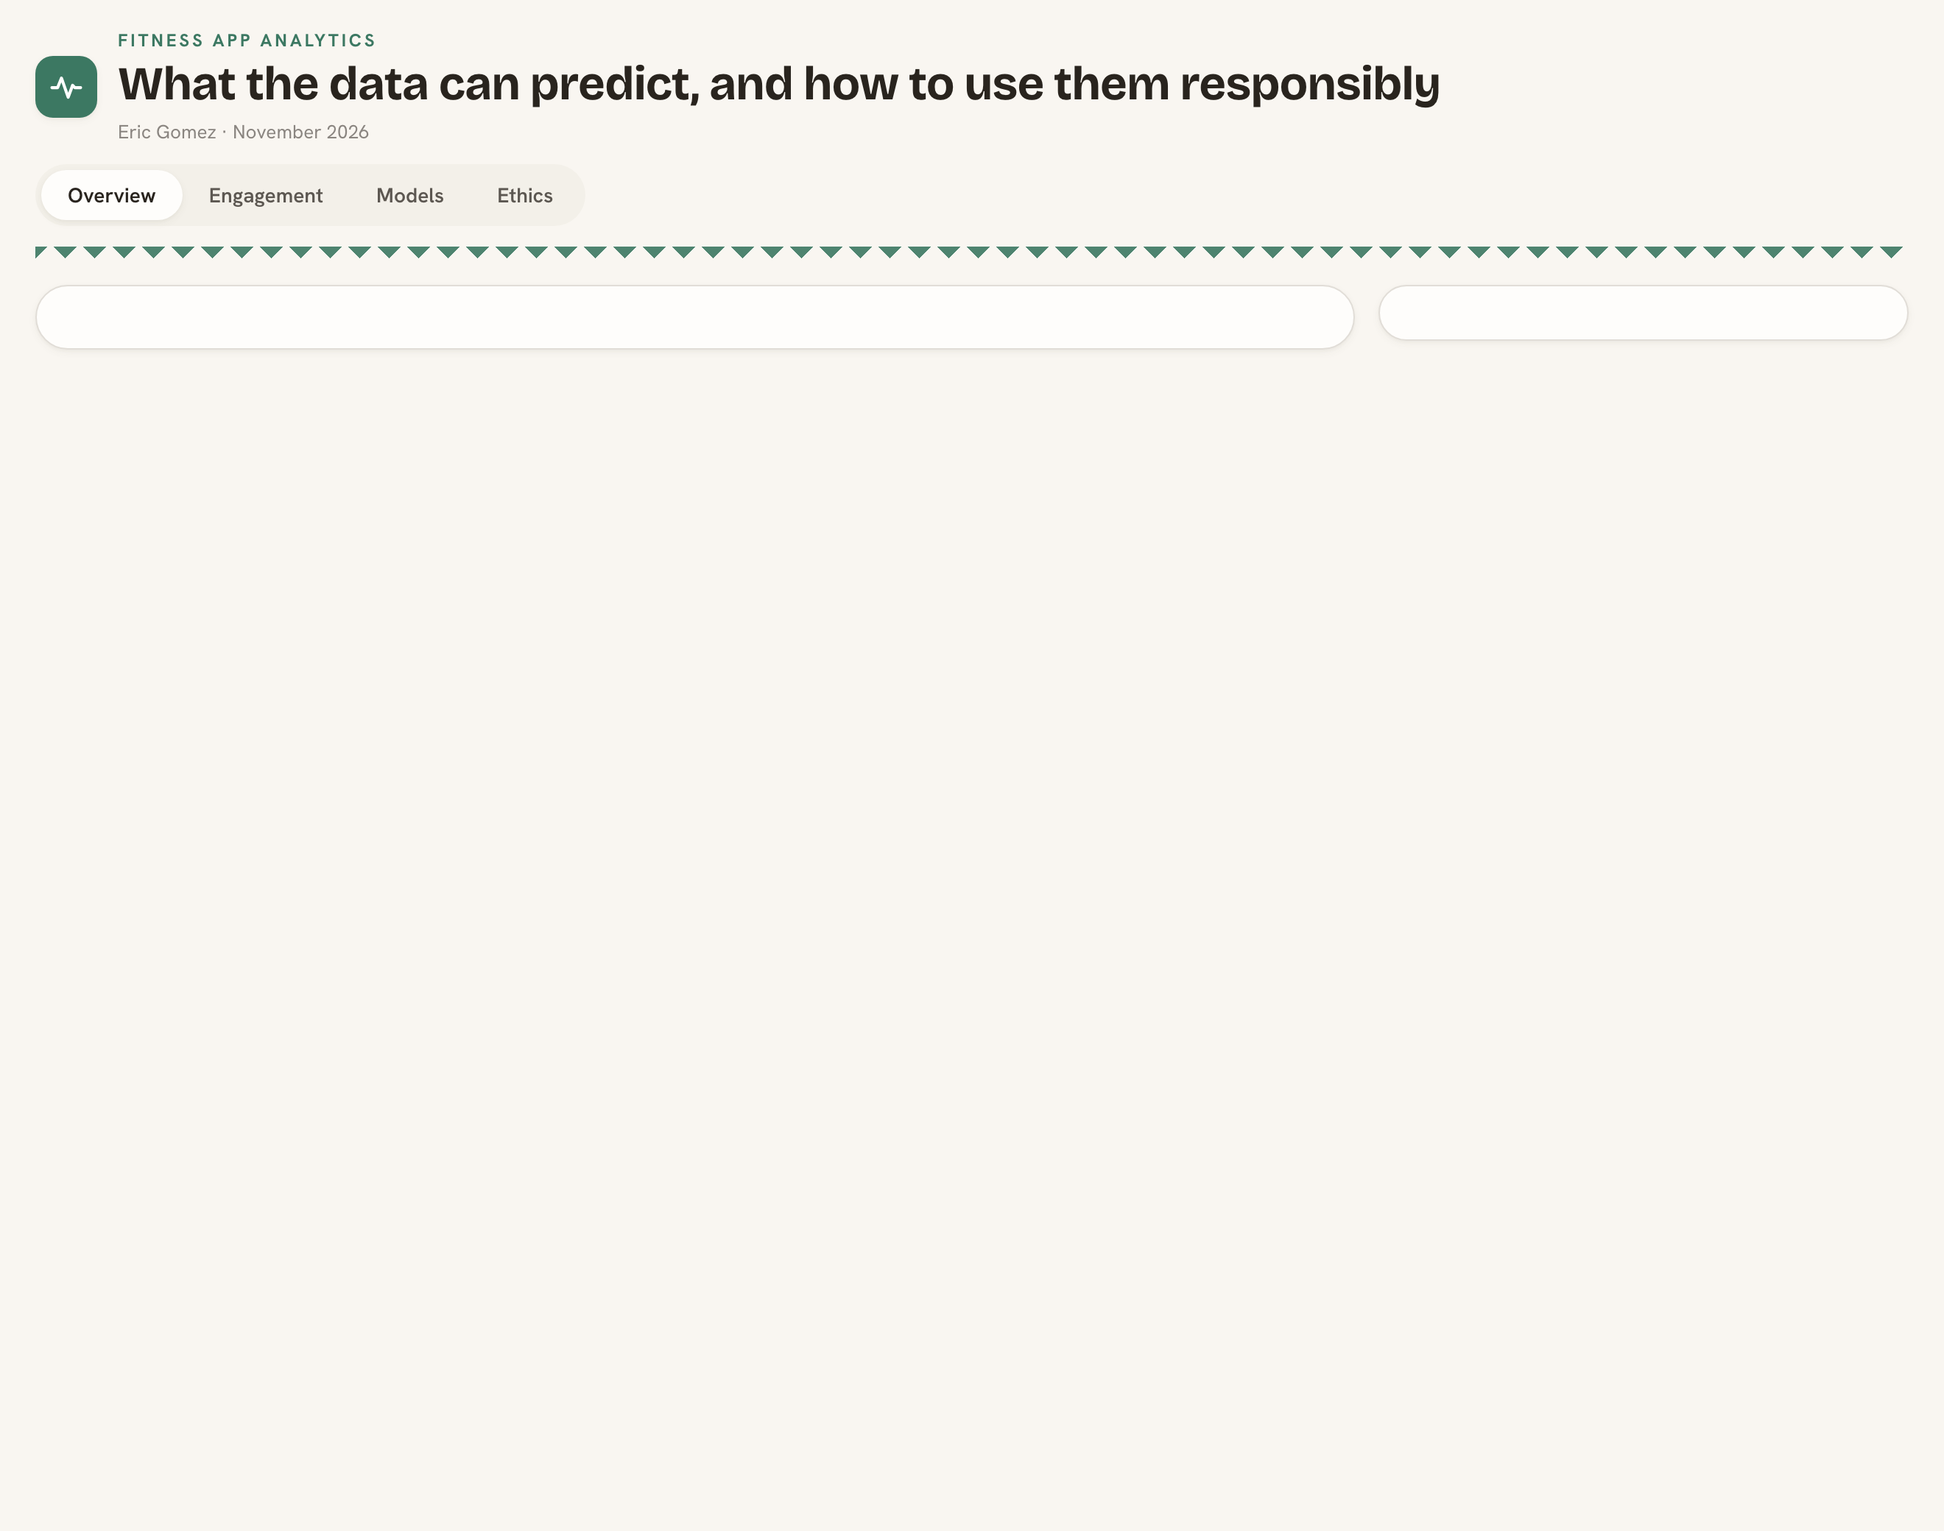
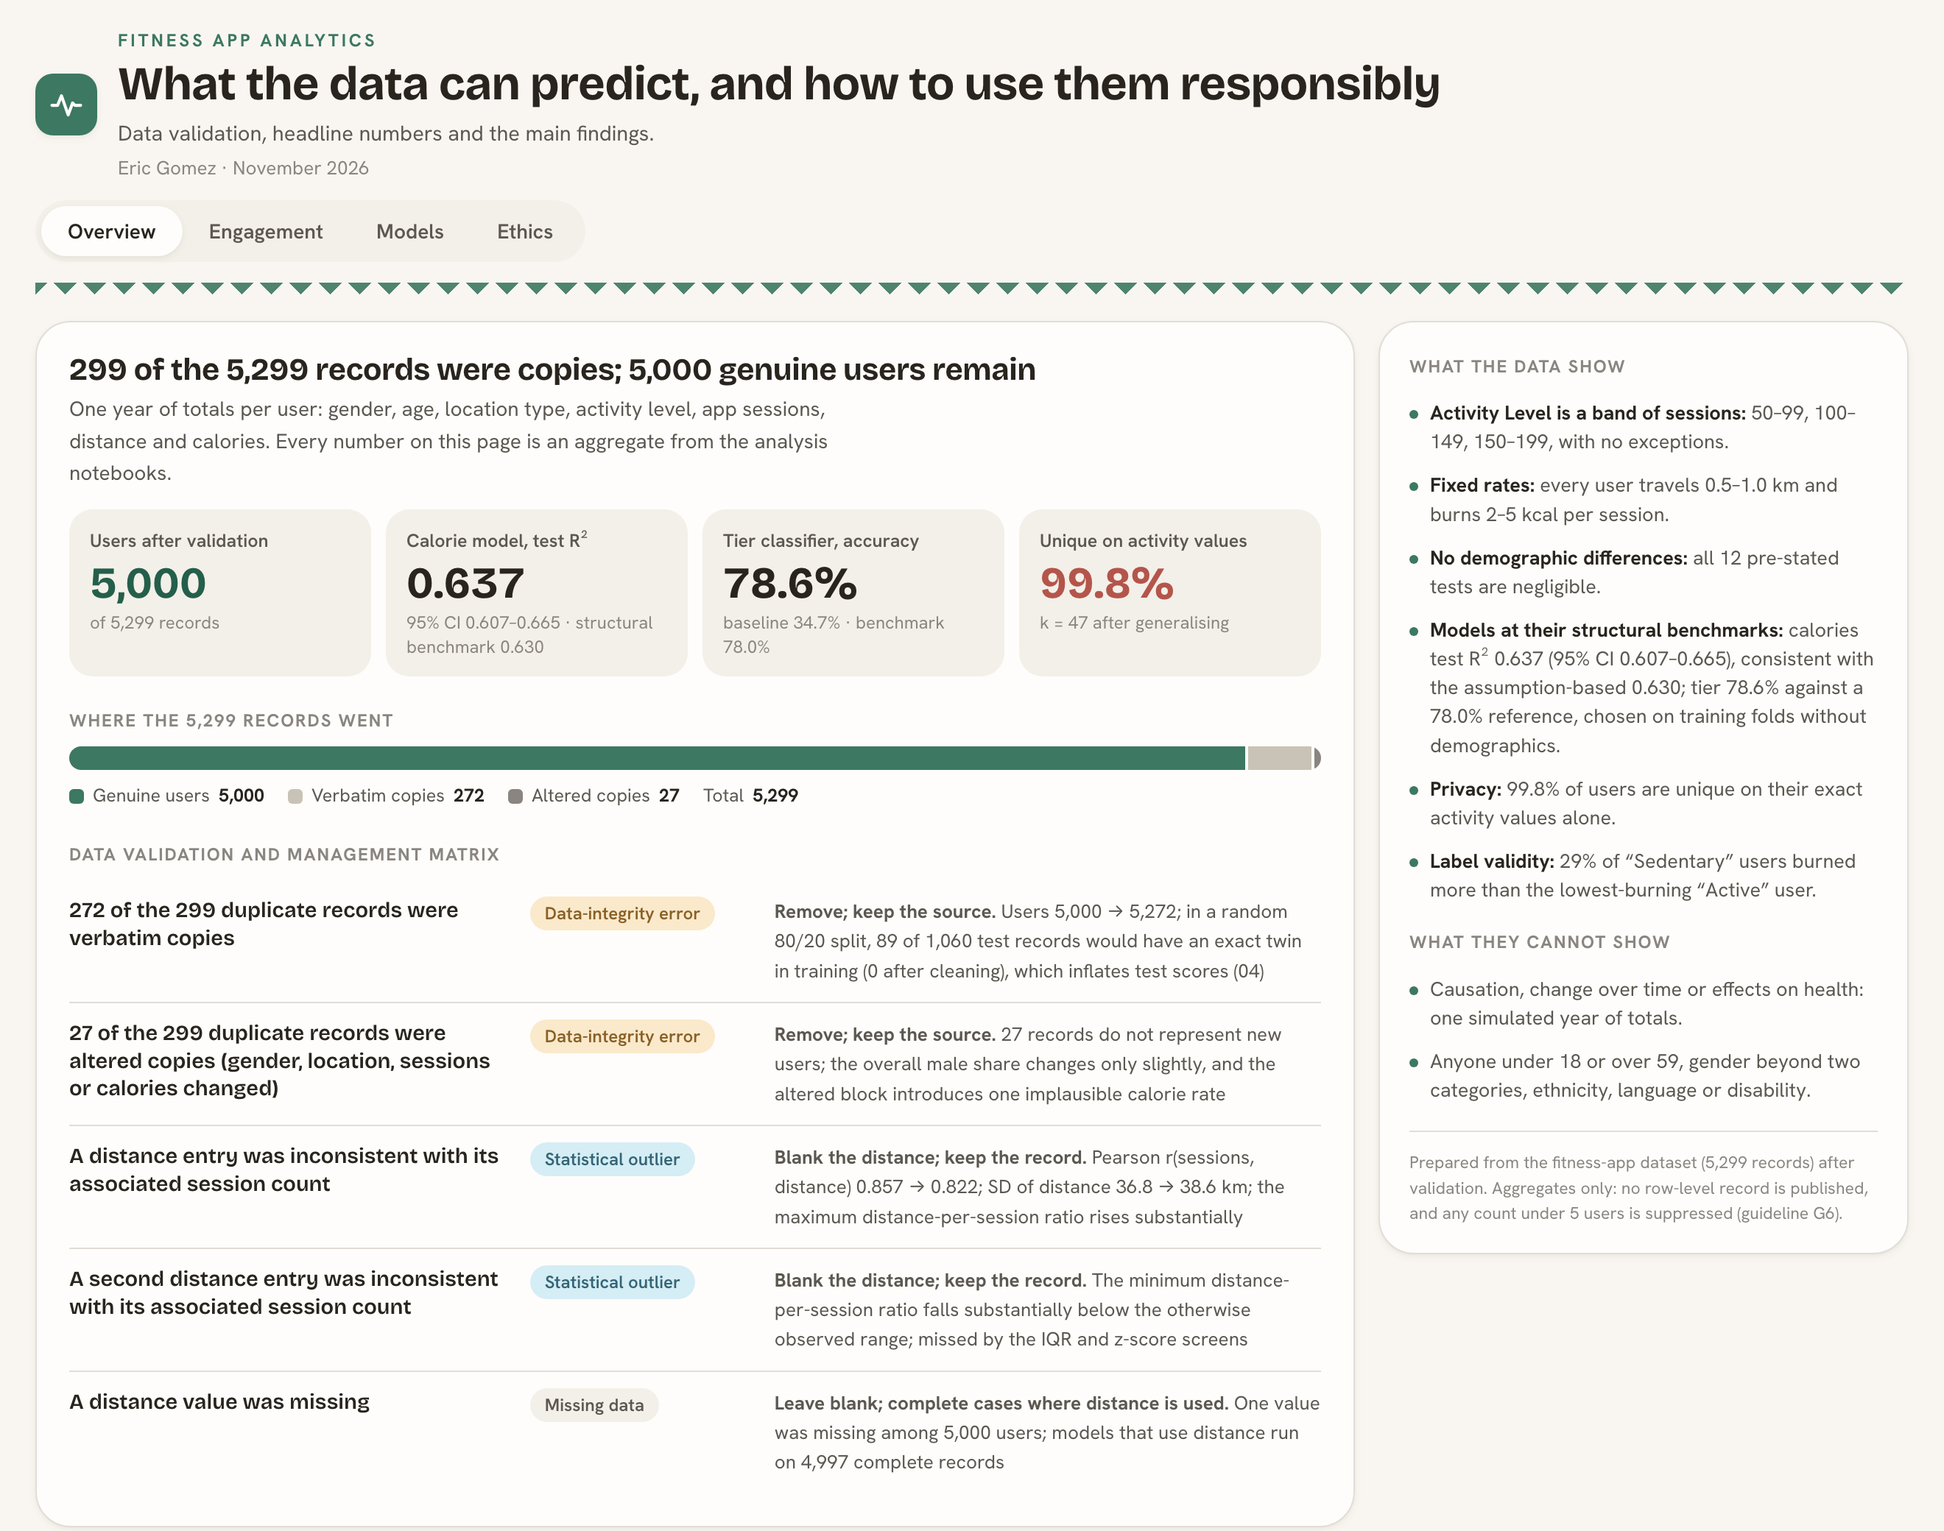
ass II up IV

diff --git a/Ass 2/Ass2-Fitness/outputs/dashboards/fitness_dashboard.html b/Ass 2/Ass2-Fitness/outputs/dashboards/fitness_dashboard.html
@@ -418,7 +418,7 @@ window.DATA = {"meta":{"byline":"Eric Gomez · November 2026","n_raw":5299,"n_us
 
   function viewOverview() {
     const lin = reg("Linear: sessions only"), lg = clf("Logistic regression: distance and calories"), base = clf("Majority-class baseline"),
-      bay = clf("Structural Bayes rule (reference ceiling)");
+      bay = clf("Structural Bayes rule (reference benchmark)");
     const tot = D.flow.reduce((a, b) => a + b.n, 0);
     const segc = { kept: "s-kept", copy: "s-copy", alt: "s-alt" };
     const klass = { "Data-integrity error": "k-int", "Statistical outlier": "k-out", "Missing data": "k-miss", "Critical anomaly": "k-crit" };
@@ -427,8 +427,8 @@ window.DATA = {"meta":{"byline":"Eric Gomez · November 2026","n_raw":5299,"n_us
       Every number on this page is an aggregate from the analysis notebooks.</p></div></div>
       <div class="kpis k4">
         ${kpi("Users after validation", thou(D.meta.n_users), `of ${thou(D.meta.n_raw)} records`, "acc")}
-        ${kpi("Calorie model, test R²", num(lin.r2, 3), "95% CI 0.607–0.665 · theoretical ceiling 0.630")}
-        ${kpi("Tier classifier, accuracy", pct(lg.accuracy), `baseline ${pct(base.accuracy)} · ceiling ${pct(bay.accuracy)}`)}
+        ${kpi("Calorie model, test R²", num(lin.r2, 3), "95% CI 0.607–0.665 · structural benchmark 0.630")}
+        ${kpi("Tier classifier, accuracy", pct(lg.accuracy), `baseline ${pct(base.accuracy)} · benchmark ${pct(bay.accuracy)}`)}
         ${kpi("Unique on activity values", pct(kan("E.").pct_unique / 100), `k = ${kan("F.").min_k} after generalising`, "warn")}
       </div>
       <p class="sectionlabel">Where the 5,299 records went</p>
@@ -447,7 +447,7 @@ window.DATA = {"meta":{"byline":"Eric Gomez · November 2026","n_raw":5299,"n_us
       <li><b>Activity Level is a band of sessions:</b> 50–99, 100–149, 150–199, with no exceptions.</li>
       <li><b>Fixed rates:</b> every user travels 0.5–1.0 km and burns 2–5 kcal per session.</li>
       <li><b>No demographic differences:</b> all 12 pre-stated tests are negligible.</li>
-      <li><b>Models at the ceiling:</b> calories test R² 0.637 (95% CI 0.607–0.665), consistent with the theoretical 0.630; tier 78.6% against a 78.0% reference, chosen on training folds without demographics.</li>
+      <li><b>Models at their structural benchmarks:</b> calories test R² 0.637 (95% CI 0.607–0.665), consistent with the assumption-based 0.630; tier 78.6% against a 78.0% reference, chosen on training folds without demographics.</li>
       <li><b>Privacy:</b> 99.8% of users are unique on their exact activity values alone.</li>
       <li><b>Label validity:</b> 29% of “Sedentary” users burned more than the lowest-burning “Active” user.</li></ul>
       <p class="sectionlabel">What they cannot show</p><ul class="list">
@@ -498,8 +498,8 @@ window.DATA = {"meta":{"byline":"Eric Gomez · November 2026","n_raw":5299,"n_us
         return { label: m.replace("x sessions", "× sessions"), value: r.r2, lo: ci ? +ci[1] : null, hi: ci ? +ci[2] : null,
           color: m.startsWith("Linear: sessions") ? COL.accent : (m.startsWith("Structural") ? COL.ink : COL.context) }; });
       const iv = (t, k) => D.intervals.find((r) => r.tier === t && r.interval === k);
-      body = `<p class="csub">Test R² on 1,000 held-out users, with 95% bootstrap intervals. Dashed: the analytic ceiling.</p>
-        <div class="chart">${hbars(rows, { min: 0, max: 0.7, nt: 7, fmt: (v) => num(v, 2), vfmt: (v) => num(v, 3), refs: [{ x: 0.63, label: "ceiling 0.630" }], aria: "Test R squared by model" })}</div>
+      body = `<p class="csub">Test R² on 1,000 held-out users, with 95% bootstrap intervals. Dashed: the structural benchmark, which assumes the inferred 2–5 kcal rate.</p>
+        <div class="chart">${hbars(rows, { min: 0, max: 0.7, nt: 7, fmt: (v) => num(v, 2), vfmt: (v) => num(v, 3), refs: [{ x: 0.63, label: "benchmark 0.630" }], aria: "Test R squared by model" })}</div>
         <p class="sectionlabel">80% prediction intervals: coverage by tier</p>
         ${table(["Tier", "Constant width", "Quantile regression", "Width (quantile)"], [...TIERS, "All users"].map((t) =>
           [t, pct(iv(t, "Constant width").coverage, 0), `<b>${pct(iv(t, "Quantile regression").coverage, 0)}</b>`, `${num(iv(t, "Quantile regression").mean_width, 0)} kcal`]), [1, 2, 3])}
@@ -507,9 +507,9 @@ window.DATA = {"meta":{"byline":"Eric Gomez · November 2026","n_raw":5299,"n_us
         coverage near 80% in every tier. Show calories as a range that widens with activity.</p>`;
     } else if (state.model === "tier") {
       const order = ["Majority-class baseline", "Logistic regression: demographics only", "Logistic regression: distance and calories", "Logistic regression: all inputs", "k-nearest neighbours (k = 25)",
-        "SVM (RBF kernel)", "Random forest", "Gradient boosting", "Structural Bayes rule (reference ceiling)"];
+        "SVM (RBF kernel)", "Random forest", "Gradient boosting", "Structural Bayes rule (reference benchmark)"];
       const rows = order.map((m) => { const r = clf(m); const ci = String(r.accuracy_ci || "").match(/(-?[\d.]+)-(-?[\d.]+)/);
-        return { label: m.replace(" (reference ceiling)", ""), value: r.accuracy, lo: ci ? +ci[1] : null, hi: ci ? +ci[2] : null,
+        return { label: m.replace(" (reference benchmark)", ""), value: r.accuracy, lo: ci ? +ci[1] : null, hi: ci ? +ci[2] : null,
           color: m === "Logistic regression: distance and calories" ? COL.accent : (m.startsWith("Structural") ? COL.ink : COL.context) }; });
       const cm = D.confusion, tot = cm.counts.map((r) => r.reduce((a, b) => a + b, 0));
       const op = D.thresholds.find((r) => r.miss_cost_ratio === state.cost);
@@ -535,7 +535,7 @@ window.DATA = {"meta":{"byline":"Eric Gomez · November 2026","n_raw":5299,"n_us
         <p class="sectionlabel">Rule-based segments instead: tier × intensity</p>
         ${table(["Tier", "Intensity (kcal per session)", "Users"], D.rule_segments.map((r) => [r.activity_level, r.intensity, thou(r.n)]), [2])}`;
     }
-    return `<div class="cardhead"><div><h2 class="ctitle">The models reach the ceiling the data allow</h2></div>
+    return `<div class="cardhead"><div><h2 class="ctitle">The models reach their structural benchmarks</h2></div>
       ${seg("model", "Model", [["calories", "Calories"], ["tier", "Tier"], ["segments", "Segments"]], state.model)}</div>${body}`;
   }
 
@@ -622,7 +622,7 @@ window.DATA = {"meta":{"byline":"Eric Gomez · November 2026","n_raw":5299,"n_us
     models: [viewModels, panelModels], ethics: [viewEthics, panelEthics] };
   const SUBS = { overview: "Data validation, headline numbers and the main findings.",
     engagement: "The structure of engagement and twelve pre-stated demographic tests.",
-    models: "Three models against their baselines and theoretical ceilings, and two evaluation traps.",
+    models: "Three models against their baselines and structural benchmarks, and two evaluation traps.",
     ethics: "Re-identification risk, differential privacy, a subgroup audit and label validity, with twelve guidelines." };
 
   function render() {

diff --git a/Ass 2/Ass2-Fitness/src/visualization/dashboard_template.html b/Ass 2/Ass2-Fitness/src/visualization/dashboard_template.html
@@ -418,7 +418,7 @@ window.DATA = __DATA__;
 
   function viewOverview() {
     const lin = reg("Linear: sessions only"), lg = clf("Logistic regression: distance and calories"), base = clf("Majority-class baseline"),
-      bay = clf("Structural Bayes rule (reference ceiling)");
+      bay = clf("Structural Bayes rule (reference benchmark)");
     const tot = D.flow.reduce((a, b) => a + b.n, 0);
     const segc = { kept: "s-kept", copy: "s-copy", alt: "s-alt" };
     const klass = { "Data-integrity error": "k-int", "Statistical outlier": "k-out", "Missing data": "k-miss", "Critical anomaly": "k-crit" };
@@ -427,8 +427,8 @@ window.DATA = __DATA__;
       Every number on this page is an aggregate from the analysis notebooks.</p></div></div>
       <div class="kpis k4">
         ${kpi("Users after validation", thou(D.meta.n_users), `of ${thou(D.meta.n_raw)} records`, "acc")}
-        ${kpi("Calorie model, test R²", num(lin.r2, 3), "95% CI 0.607–0.665 · theoretical ceiling 0.630")}
-        ${kpi("Tier classifier, accuracy", pct(lg.accuracy), `baseline ${pct(base.accuracy)} · ceiling ${pct(bay.accuracy)}`)}
+        ${kpi("Calorie model, test R²", num(lin.r2, 3), "95% CI 0.607–0.665 · structural benchmark 0.630")}
+        ${kpi("Tier classifier, accuracy", pct(lg.accuracy), `baseline ${pct(base.accuracy)} · benchmark ${pct(bay.accuracy)}`)}
         ${kpi("Unique on activity values", pct(kan("E.").pct_unique / 100), `k = ${kan("F.").min_k} after generalising`, "warn")}
       </div>
       <p class="sectionlabel">Where the 5,299 records went</p>
@@ -447,7 +447,7 @@ window.DATA = __DATA__;
       <li><b>Activity Level is a band of sessions:</b> 50–99, 100–149, 150–199, with no exceptions.</li>
       <li><b>Fixed rates:</b> every user travels 0.5–1.0 km and burns 2–5 kcal per session.</li>
       <li><b>No demographic differences:</b> all 12 pre-stated tests are negligible.</li>
-      <li><b>Models at the ceiling:</b> calories test R² 0.637 (95% CI 0.607–0.665), consistent with the theoretical 0.630; tier 78.6% against a 78.0% reference, chosen on training folds without demographics.</li>
+      <li><b>Models at their structural benchmarks:</b> calories test R² 0.637 (95% CI 0.607–0.665), consistent with the assumption-based 0.630; tier 78.6% against a 78.0% reference, chosen on training folds without demographics.</li>
       <li><b>Privacy:</b> 99.8% of users are unique on their exact activity values alone.</li>
       <li><b>Label validity:</b> 29% of “Sedentary” users burned more than the lowest-burning “Active” user.</li></ul>
       <p class="sectionlabel">What they cannot show</p><ul class="list">
@@ -498,8 +498,8 @@ window.DATA = __DATA__;
         return { label: m.replace("x sessions", "× sessions"), value: r.r2, lo: ci ? +ci[1] : null, hi: ci ? +ci[2] : null,
           color: m.startsWith("Linear: sessions") ? COL.accent : (m.startsWith("Structural") ? COL.ink : COL.context) }; });
       const iv = (t, k) => D.intervals.find((r) => r.tier === t && r.interval === k);
-      body = `<p class="csub">Test R² on 1,000 held-out users, with 95% bootstrap intervals. Dashed: the analytic ceiling.</p>
-        <div class="chart">${hbars(rows, { min: 0, max: 0.7, nt: 7, fmt: (v) => num(v, 2), vfmt: (v) => num(v, 3), refs: [{ x: 0.63, label: "ceiling 0.630" }], aria: "Test R squared by model" })}</div>
+      body = `<p class="csub">Test R² on 1,000 held-out users, with 95% bootstrap intervals. Dashed: the structural benchmark, which assumes the inferred 2–5 kcal rate.</p>
+        <div class="chart">${hbars(rows, { min: 0, max: 0.7, nt: 7, fmt: (v) => num(v, 2), vfmt: (v) => num(v, 3), refs: [{ x: 0.63, label: "benchmark 0.630" }], aria: "Test R squared by model" })}</div>
         <p class="sectionlabel">80% prediction intervals: coverage by tier</p>
         ${table(["Tier", "Constant width", "Quantile regression", "Width (quantile)"], [...TIERS, "All users"].map((t) =>
           [t, pct(iv(t, "Constant width").coverage, 0), `<b>${pct(iv(t, "Quantile regression").coverage, 0)}</b>`, `${num(iv(t, "Quantile regression").mean_width, 0)} kcal`]), [1, 2, 3])}
@@ -507,9 +507,9 @@ window.DATA = __DATA__;
         coverage near 80% in every tier. Show calories as a range that widens with activity.</p>`;
     } else if (state.model === "tier") {
       const order = ["Majority-class baseline", "Logistic regression: demographics only", "Logistic regression: distance and calories", "Logistic regression: all inputs", "k-nearest neighbours (k = 25)",
-        "SVM (RBF kernel)", "Random forest", "Gradient boosting", "Structural Bayes rule (reference ceiling)"];
+        "SVM (RBF kernel)", "Random forest", "Gradient boosting", "Structural Bayes rule (reference benchmark)"];
       const rows = order.map((m) => { const r = clf(m); const ci = String(r.accuracy_ci || "").match(/(-?[\d.]+)-(-?[\d.]+)/);
-        return { label: m.replace(" (reference ceiling)", ""), value: r.accuracy, lo: ci ? +ci[1] : null, hi: ci ? +ci[2] : null,
+        return { label: m.replace(" (reference benchmark)", ""), value: r.accuracy, lo: ci ? +ci[1] : null, hi: ci ? +ci[2] : null,
           color: m === "Logistic regression: distance and calories" ? COL.accent : (m.startsWith("Structural") ? COL.ink : COL.context) }; });
       const cm = D.confusion, tot = cm.counts.map((r) => r.reduce((a, b) => a + b, 0));
       const op = D.thresholds.find((r) => r.miss_cost_ratio === state.cost);
@@ -535,7 +535,7 @@ window.DATA = __DATA__;
         <p class="sectionlabel">Rule-based segments instead: tier × intensity</p>
         ${table(["Tier", "Intensity (kcal per session)", "Users"], D.rule_segments.map((r) => [r.activity_level, r.intensity, thou(r.n)]), [2])}`;
     }
-    return `<div class="cardhead"><div><h2 class="ctitle">The models reach the ceiling the data allow</h2></div>
+    return `<div class="cardhead"><div><h2 class="ctitle">The models reach their structural benchmarks</h2></div>
       ${seg("model", "Model", [["calories", "Calories"], ["tier", "Tier"], ["segments", "Segments"]], state.model)}</div>${body}`;
   }
 
@@ -622,7 +622,7 @@ window.DATA = __DATA__;
     models: [viewModels, panelModels], ethics: [viewEthics, panelEthics] };
   const SUBS = { overview: "Data validation, headline numbers and the main findings.",
     engagement: "The structure of engagement and twelve pre-stated demographic tests.",
-    models: "Three models against their baselines and theoretical ceilings, and two evaluation traps.",
+    models: "Three models against their baselines and structural benchmarks, and two evaluation traps.",
     ethics: "Re-identification risk, differential privacy, a subgroup audit and label validity, with twelve guidelines." };
 
   function render() {

diff --git a/Ass 2/Ass2-Fitness/tests/test_dashboard.py b/Ass 2/Ass2-Fitness/tests/test_dashboard.py
@@ -35,6 +35,22 @@ def test_published_dashboard_does_not_include_record_ids():
     assert not re.search(r'\buser\s+\d{3,}\b|\bIDs?\s+\d{3,}\b', html, re.IGNORECASE)
 
 
+def test_template_model_lookups_exist_in_data():
+    """Every model the page looks up by name must be in the data, or the view crashes and renders empty."""
+    from src.visualization.dashboard import dashboard_data
+    data = dashboard_data()
+    template = TEMPLATE.read_text(encoding='utf-8')
+    for kind, key in (('clf', 'classification'), ('reg', 'regression')):
+        names = {r['model'] for r in data[key]}
+        for name in re.findall(kind + r'\("([^"]+)"\)', template):
+            assert name in names, f'{kind}("{name}") is not in the dashboard data'
+    # Model lists the views iterate over must match the data too.
+    every = {r['model'] for key in ('classification', 'regression') for r in data[key]}
+    for block in re.findall(r'const order = \[(.*?)\];', template, re.S):
+        for name in re.findall(r'"([^"]+)"', block):
+            assert name in every, f'"{name}" in a model order list is not in the dashboard data'
+
+
 if __name__ == '__main__':
     tests = [(n, f) for n, f in sorted(globals().items())
              if n.startswith('test_') and callable(f)]

diff --git a/Ass 2/Ass2-Fitness/src/visualization/dashboard.py b/Ass 2/Ass2-Fitness/src/visualization/dashboard.py
@@ -4,7 +4,7 @@ Four views, in the order a reader needs them:
 
   Overview     the validation outcome, the headline numbers and the findings (01, 02)
   Engagement   the structure of engagement and the twelve demographic tests (02, 03)
-  Models       the three models against their baselines and ceilings, and the two traps (04)
+  Models       the three models against their baselines and structural benchmarks, and the two traps (04)
   Ethics       re-identification, differential privacy, subgroup audit, label validity, guidelines (05)
 
 Aggregates only, by design (guideline G6 in notebook 05): the page carries the results tables and one
